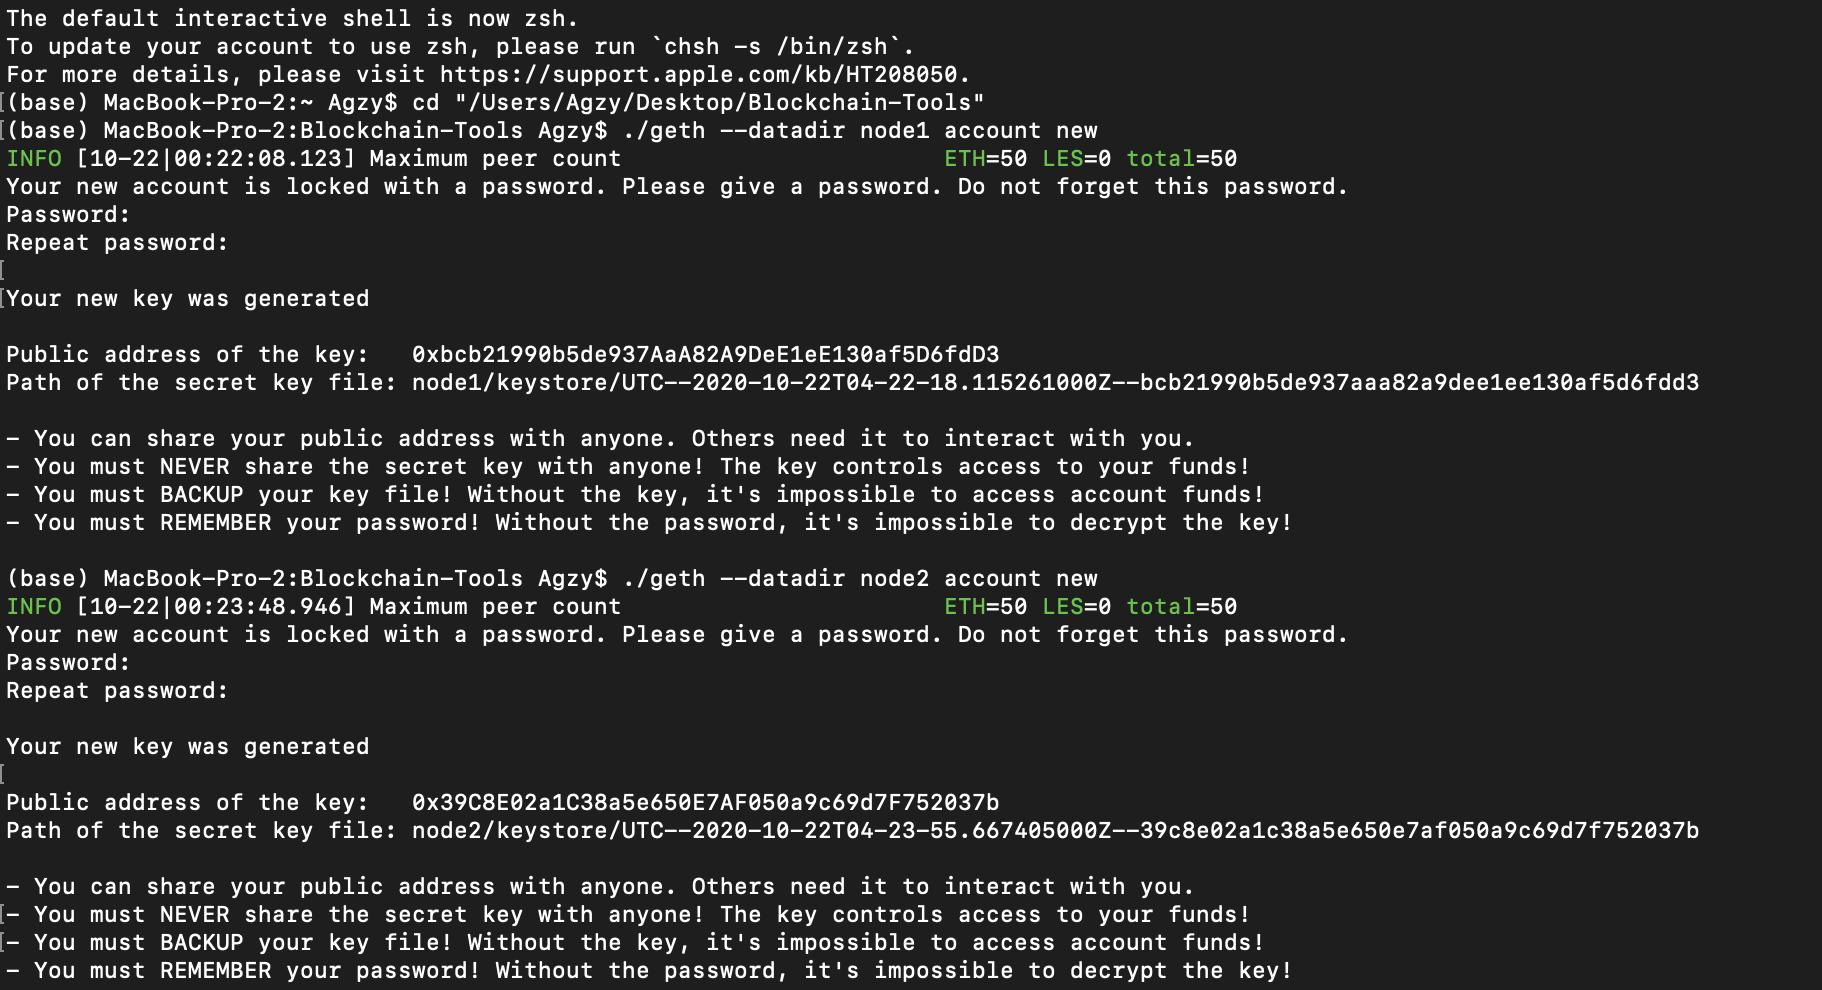
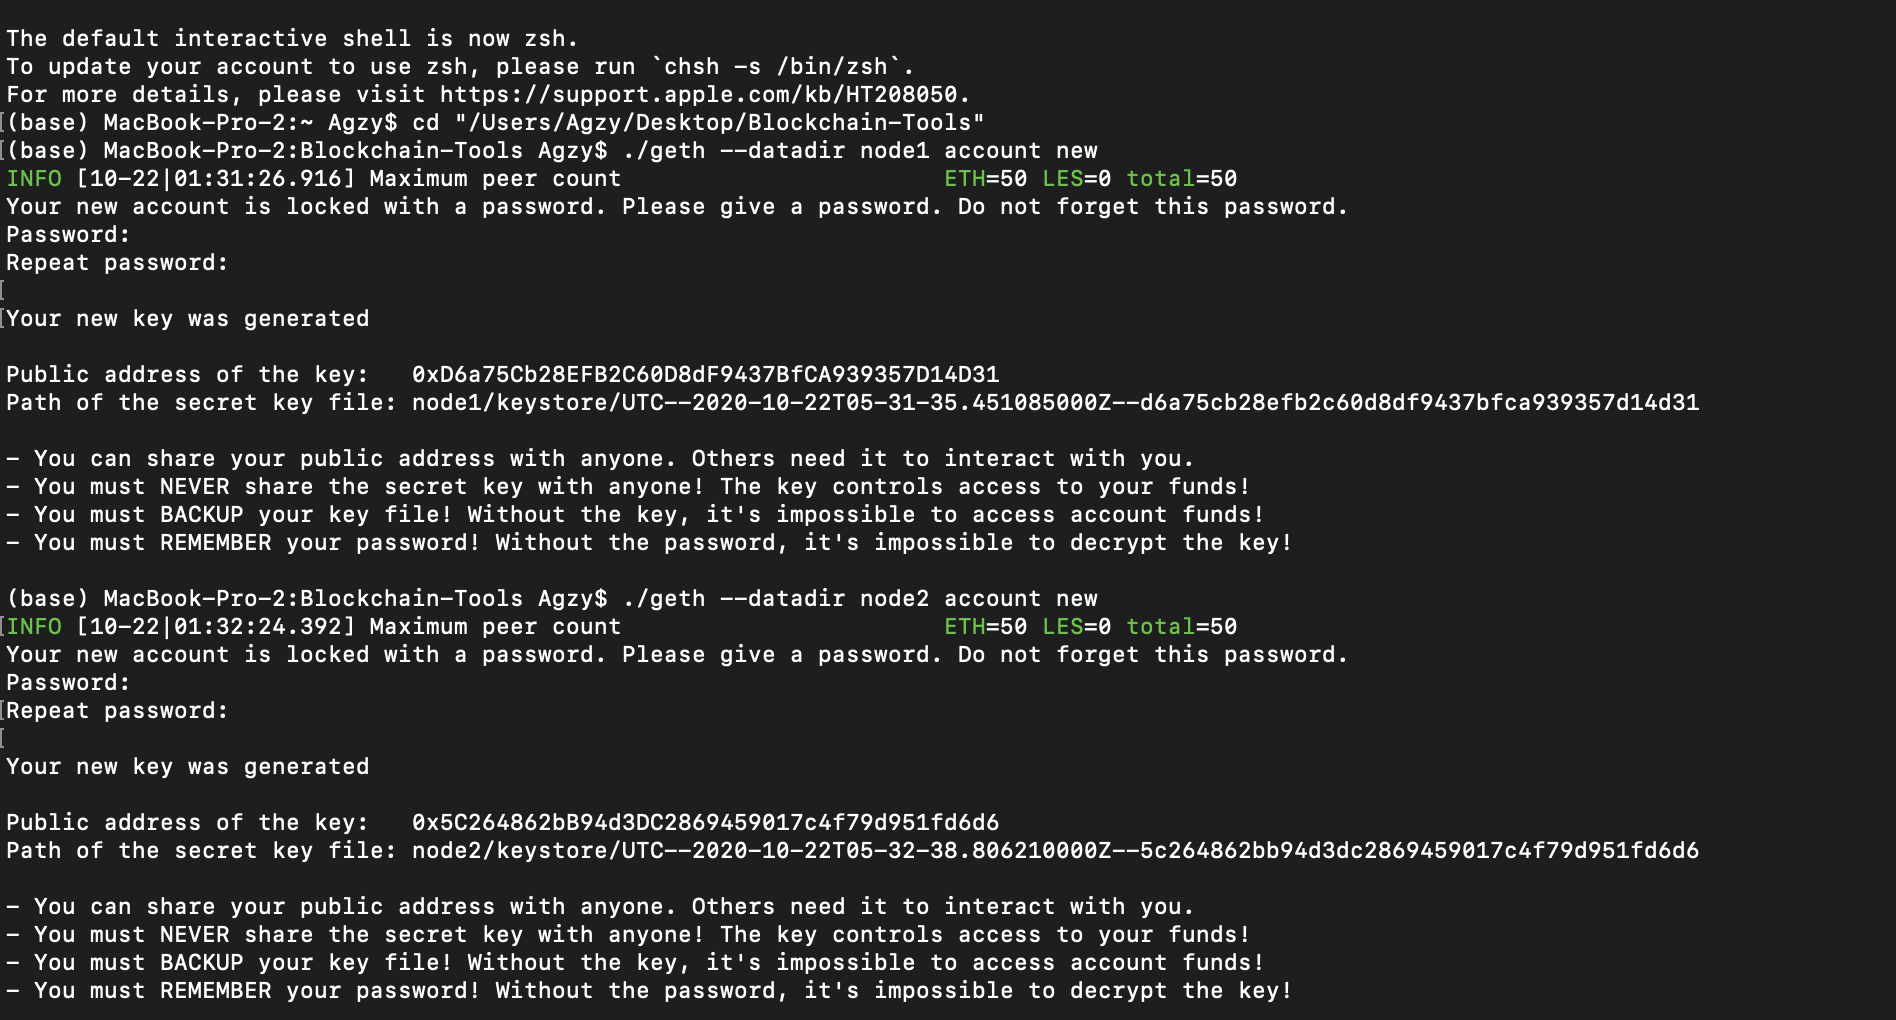
new nodes created and new screen shots updated in README

Changed region(s): [[0.0, 0.0, 0.9528, 0.5455], [0.0, 0.5758, 0.9528, 0.8485], [0.0, 0.8788, 0.7069, 1.0]]

diff --git a/README.md b/README.md
@@ -14,3 +14,23 @@ Creating of Proof of Authority (PoA) algorithm required to create accounts for t
 
 ![1](Images/1.png)
 
+* After the prefunding, new chain id is created with name 112120
+
+* Then, I exported the existing genesis and saved the genesis specs
+
+![2](Images/2.png)
+
+* Open geth and initialise both the nodes
+
+![3](Images/3.png)
+
+* Run one Node in separate Terminal window
+
+![4](Images/4.png)
+
+* Run the second Node in separate Terminal window
+
+![5](Images/5.png)
+
+### Adding Blockchain to MyCrypto:
+
